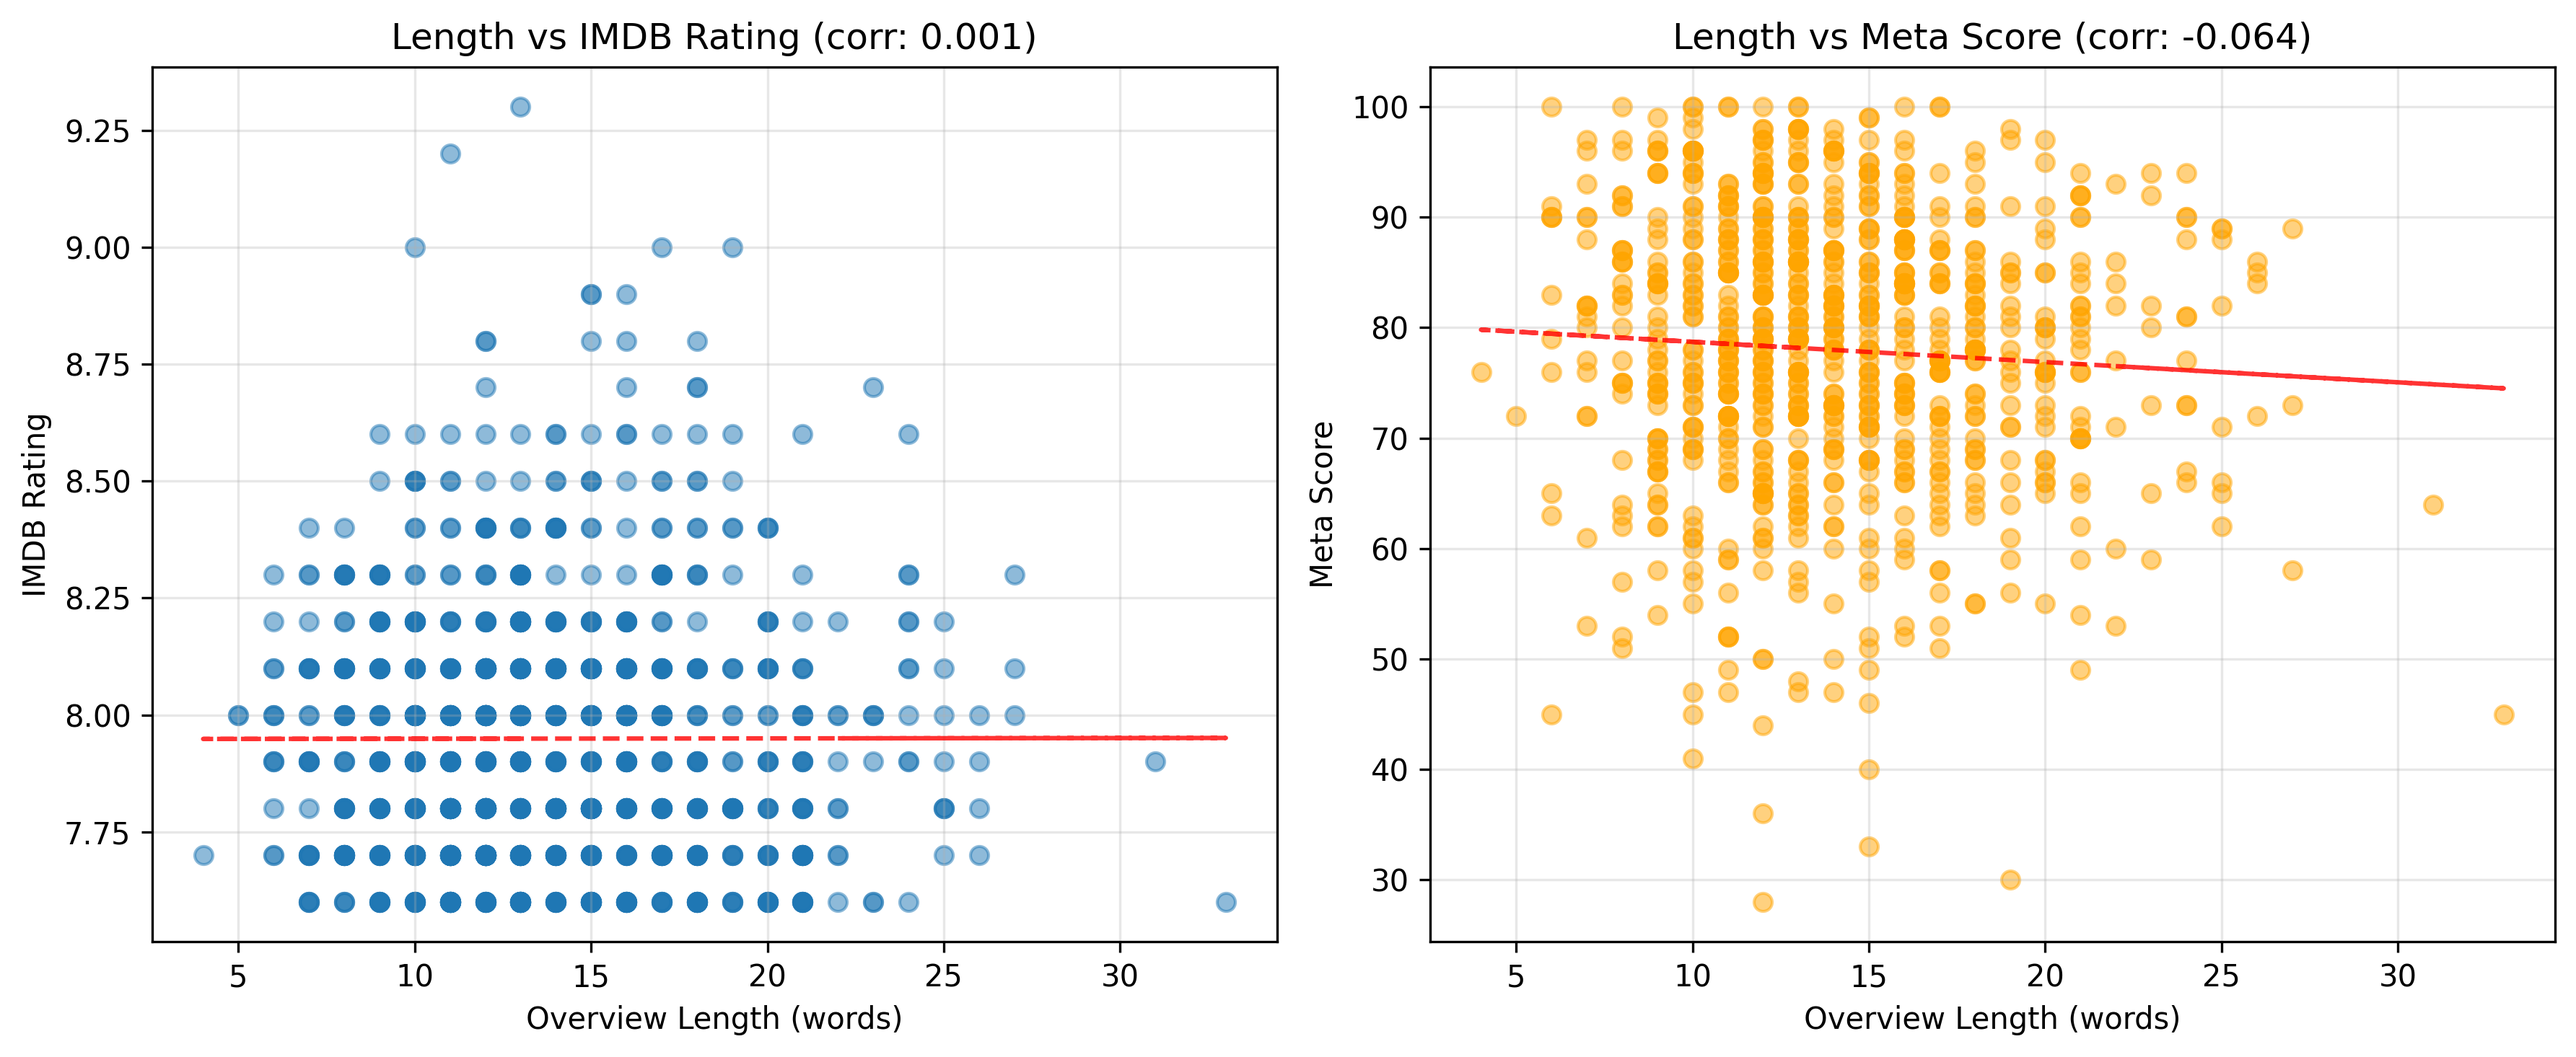
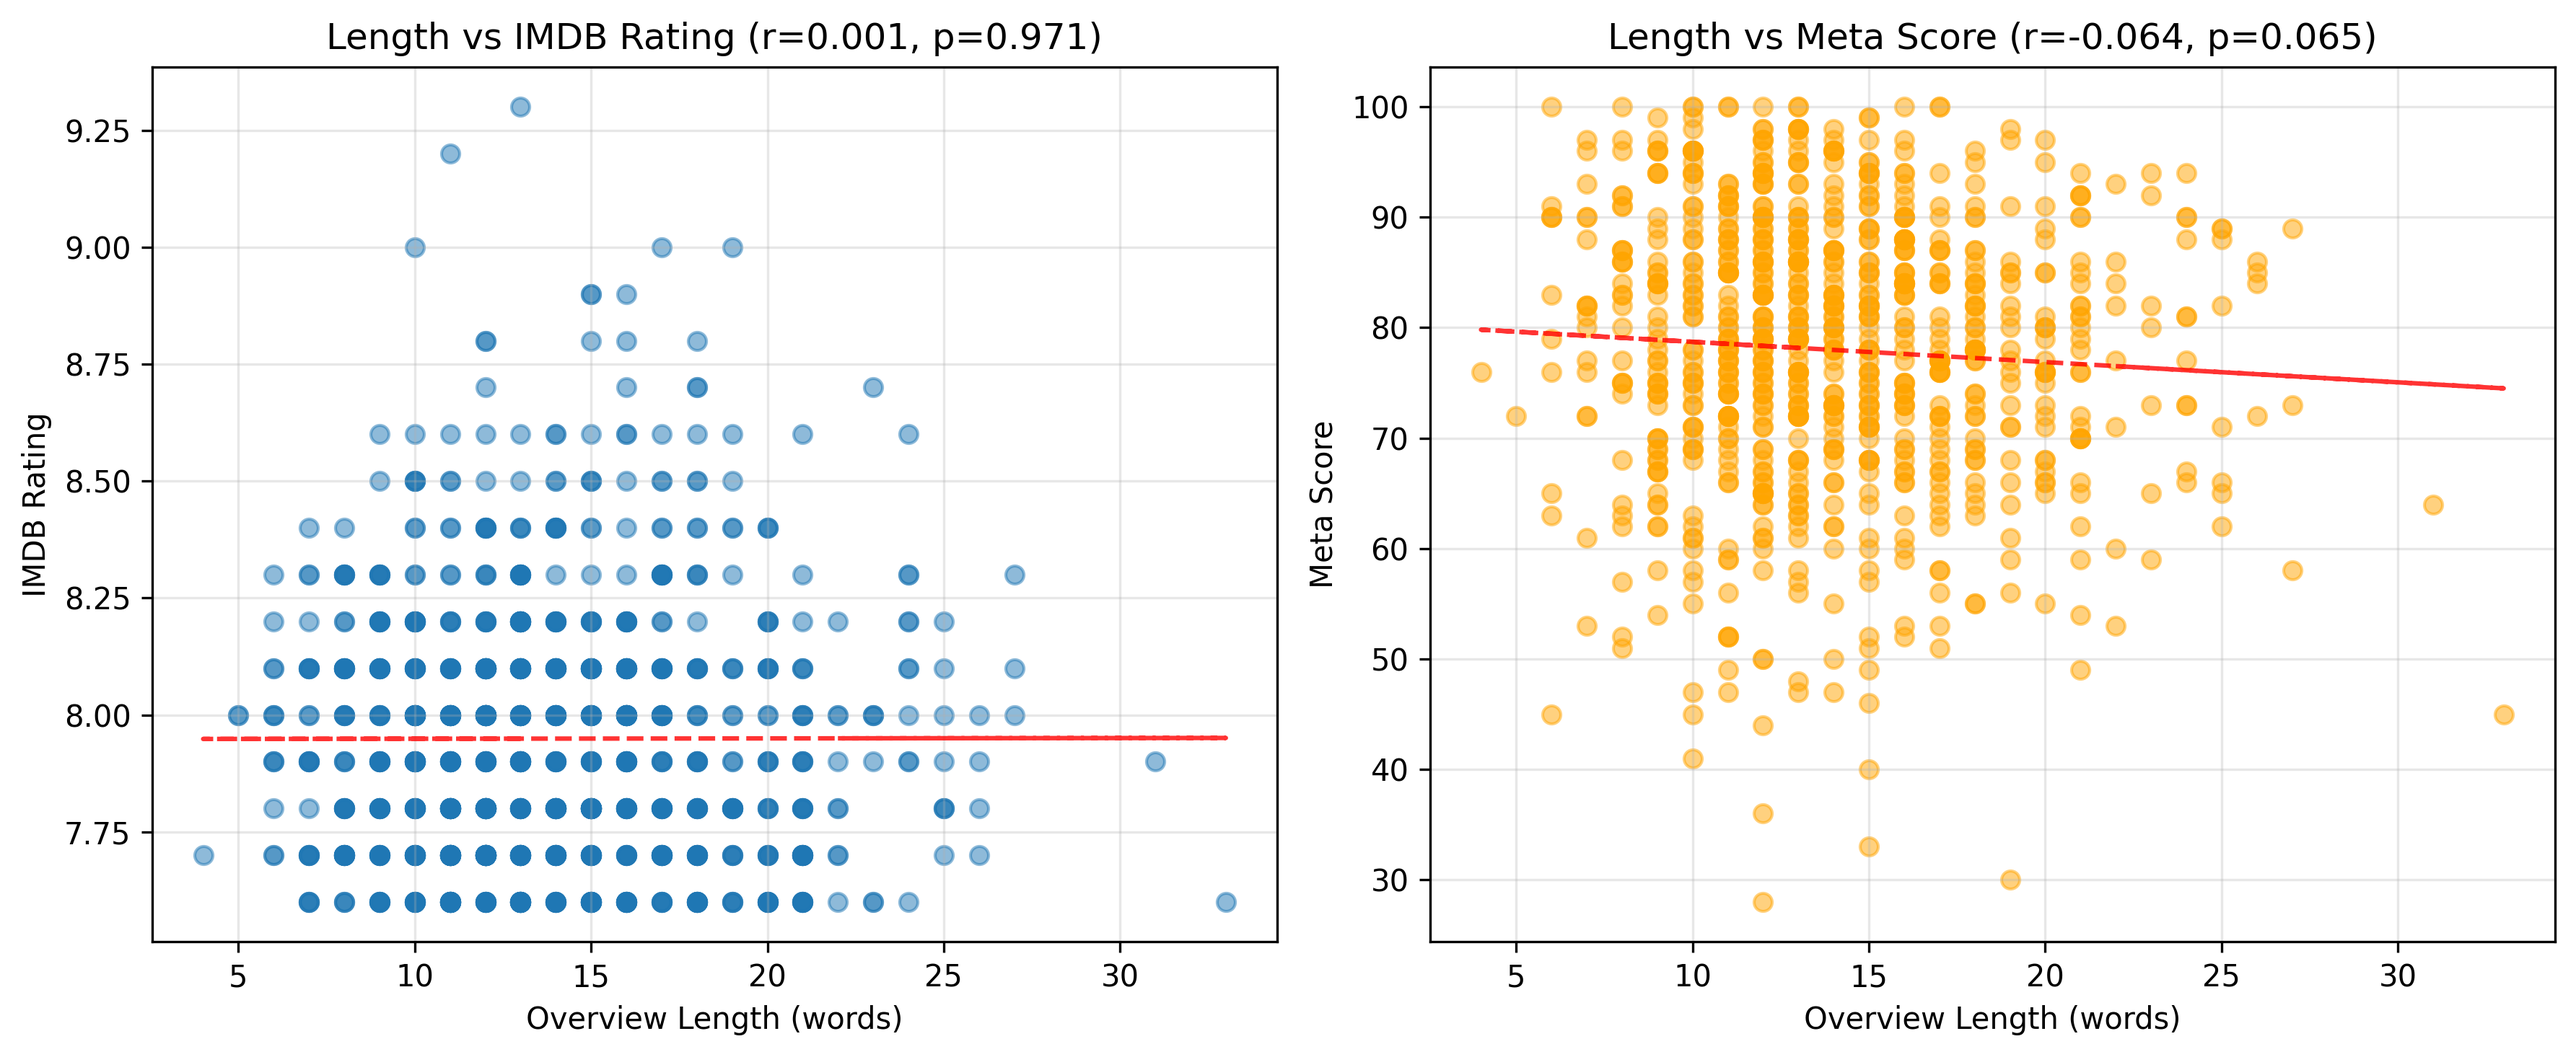
- Remove unused Counter import - Accept DataFrame instead of reloading CSV in keyword_extraction_tfidf() - Standardize TF-IDF parameters across high/low-rated analysis (max_features=50, min_df=1) - Add error handling for high-rated movies extraction - Improve visualization logic to require both anal

Changed region(s): [[0.1244, 0.0, 0.4353, 0.0614], [0.6218, 0.0, 0.9328, 0.0614]]

diff --git a/Project_IMDB.py b/Project_IMDB.py
@@ -1,13 +1,13 @@
 import pandas as pd
 import numpy as np
 import matplotlib.pyplot as plt
-from collections import Counter
 from typing import Optional
 import nltk
 from nltk.corpus import stopwords
 from nltk.tokenize import word_tokenize
 from nltk.stem import WordNetLemmatizer
 from scipy import stats
+from sklearn.feature_extraction.text import TfidfVectorizer
 
 # Download required NLTK data once
 nltk.download('punkt', quiet=True)
@@ -179,12 +179,12 @@ def overview_text_preprocessing(df: pd.DataFrame) -> pd.DataFrame:
     """
     df = df.copy()
     
-    print("OVERVIEW TEXT PREPROCESSING")
+    print("\n\nOVERVIEW TEXT PREPROCESSING")
     print("=" * 60)
     
     # CLEAN AND PREPROCESS OVERVIEW
     # ========================================================================
-    print("\n1. TEXT PREPROCESSING")
+    print("\nTEXT PREPROCESSING")
     print("-" * 60)
     
     lemmatizer = WordNetLemmatizer()
@@ -206,7 +206,7 @@ def overview_text_preprocessing(df: pd.DataFrame) -> pd.DataFrame:
     
     # COMPUTE LENGTH AND CORRELATION
     # ========================================================================
-    print("\n\n2. OVERVIEW LENGTH AND CORRELATION ANALYSIS")
+    print("\n\nOVERVIEW LENGTH AND CORRELATION ANALYSIS")
     print("-" * 60)
     
     # Calculate lengths
@@ -238,7 +238,7 @@ def overview_text_preprocessing(df: pd.DataFrame) -> pd.DataFrame:
     # Visualization
     fig, (ax1, ax2) = plt.subplots(1, 2, figsize=(12, 5))
     
-    # Plot 1: Length vs IMDB Rating (using filtered data)
+    # Plot Length vs IMDB Rating (using filtered data)
     ax1.scatter(df_valid['Length_Words'], df_valid['IMDB_Rating'], alpha=0.5)
     z = np.polyfit(df_valid['Length_Words'], df_valid['IMDB_Rating'], 1)
     p = np.poly1d(z)
@@ -248,7 +248,7 @@ def overview_text_preprocessing(df: pd.DataFrame) -> pd.DataFrame:
     ax1.set_title(f'Length vs IMDB Rating (r={corr_rating:.3f}, p={p_rating:.3f})')
     ax1.grid(True, alpha=0.3)
     
-    # Plot 2: Length vs Meta Score
+    # Plot Length vs Meta Score
     if len(df_meta_valid) > 0:
         ax2.scatter(df_meta_valid['Length_Words'], df_meta_valid['Meta_score'], alpha=0.5, color='orange')
         z2 = np.polyfit(df_meta_valid['Length_Words'], df_meta_valid['Meta_score'], 1)
@@ -270,10 +270,129 @@ def overview_text_preprocessing(df: pd.DataFrame) -> pd.DataFrame:
     return df
 
 
+def keyword_extraction_tfidf(df: pd.DataFrame) -> None:
+    """
+    Extracts top keywords using TF-IDF and compares high vs low rated movies.
+    Accepts preprocessed DataFrame from load_and_preprocess().
+    """
+    df = df.dropna(subset=['Overview']).copy()
+    
+    print("\n\nTF-IDF KEYWORD EXTRACTION")
+    print("=" * 60)
+    
+    # EXTRACT TOP KEYWORDS FROM MOVIE OVERVIEWS
+    # ========================================================================
+    print("\n1. TOP KEYWORDS FROM ALL MOVIES")
+    print("-" * 60)
+    
+    tfidf = TfidfVectorizer(max_features=50, stop_words='english')
+    tfidf_matrix = tfidf.fit_transform(df['Overview'])
+    
+    feature_names = tfidf.get_feature_names_out()
+    avg_scores = np.mean(tfidf_matrix.toarray(), axis=0)
+    
+    keywords = pd.DataFrame({
+        'keyword': feature_names,
+        'score': avg_scores
+    }).sort_values('score', ascending=False)
+    
+    print("\nTop 15 Keywords:")
+    for idx, row in keywords.head(15).iterrows():
+        print(f"  {row['keyword']}: {row['score']:.4f}")
+    
+    # COMPARE HIGH-RATED VS LOW-RATED MOVIES
+    # ========================================================================
+    print("\n\n2. COMPARING HIGH-RATED VS LOW-RATED MOVIES")
+    print("-" * 60)
+    
+    high_rated = df[df['IMDB_Rating'] > 8.0]
+    low_rated = df[df['IMDB_Rating'] < 8.0]
+    
+    print(f"\nHigh-rated (>8.0): {len(high_rated)} movies")
+    print(f"Low-rated (<8.0): {len(low_rated)} movies")
+    
+    # High-rated keywords
+    print("\nTop 10 Keywords - High-Rated Movies:")
+    try:
+        tfidf_high = TfidfVectorizer(
+            max_features=50,
+            stop_words='english',
+            min_df=1,
+            max_df=0.8,
+            ngram_range=(1, 1)
+        )
+        matrix_high = tfidf_high.fit_transform(high_rated['Overview'])
+        
+        high_keywords = pd.DataFrame({
+            'keyword': tfidf_high.get_feature_names_out(),
+            'score': np.mean(matrix_high.toarray(), axis=0)
+        }).sort_values('score', ascending=False)
+        
+        for idx, row in high_keywords.head(10).iterrows():
+            print(f"  {row['keyword']}: {row['score']:.4f}")
+    except ValueError as e:
+        print(f"  Error: {e}")
+        print("  Unable to extract keywords from high-rated movies.")
+        high_keywords = None
+    
+    # Low-rated keywords
+    print("\nTop 10 Keywords - Low-Rated Movies:")
+    try:
+        tfidf_low = TfidfVectorizer(
+            max_features=50,
+            stop_words='english',
+            min_df=1,
+            max_df=1.0,
+            ngram_range=(1, 1)
+        )
+        matrix_low = tfidf_low.fit_transform(low_rated['Overview'])
+        
+        low_keywords = pd.DataFrame({
+            'keyword': tfidf_low.get_feature_names_out(),
+            'score': np.mean(matrix_low.toarray(), axis=0)
+        }).sort_values('score', ascending=False)
+        
+        for idx, row in low_keywords.head(10).iterrows():
+            print(f"  {row['keyword']}: {row['score']:.4f}")
+    except ValueError as e:
+        print(f"  Error: {e}")
+        print("  The dataset has too few low-rated movies (<8.0) with meaningful text.")
+        low_keywords = None
+    
+    # Visualization
+    if high_keywords is not None and low_keywords is not None:
+        fig, (ax1, ax2) = plt.subplots(1, 2, figsize=(14, 6))
+        
+        top_high = high_keywords.head(10)
+        ax1.barh(top_high['keyword'], top_high['score'], color='green', alpha=0.7)
+        ax1.set_xlabel('TF-IDF Score')
+        ax1.set_title('High-Rated Movies (>8.0)')
+        ax1.invert_yaxis()
+        ax1.grid(True, alpha=0.3, axis='x')
+        
+        top_low = low_keywords.head(10)
+        ax2.barh(top_low['keyword'], top_low['score'], color='red', alpha=0.7)
+        ax2.set_xlabel('TF-IDF Score')
+        ax2.set_title('Low-Rated Movies (<8.0)')
+        ax2.invert_yaxis()
+        ax2.grid(True, alpha=0.3, axis='x')
+        
+        plt.tight_layout()
+        plt.savefig('tfidf_keywords.png', dpi=300, bbox_inches='tight')
+        print("\nVisualization saved as 'tfidf_keywords.png'")
+        plt.show()
+    else:
+        print("\nSkipping visualization due to insufficient low-rated movie data.")
+    
+    print("\nAnalysis Complete!")
+
+# Run the function
+
 if __name__ == '__main__':
     csv_path = 'imdb_top_1000.csv'
     df = exploratory_data_analysis(csv_path, plot=True)
     genre_analysis(csv_path)
     df_processed = overview_text_preprocessing(df)
+    keyword_extraction_tfidf(df_processed)
 
     
